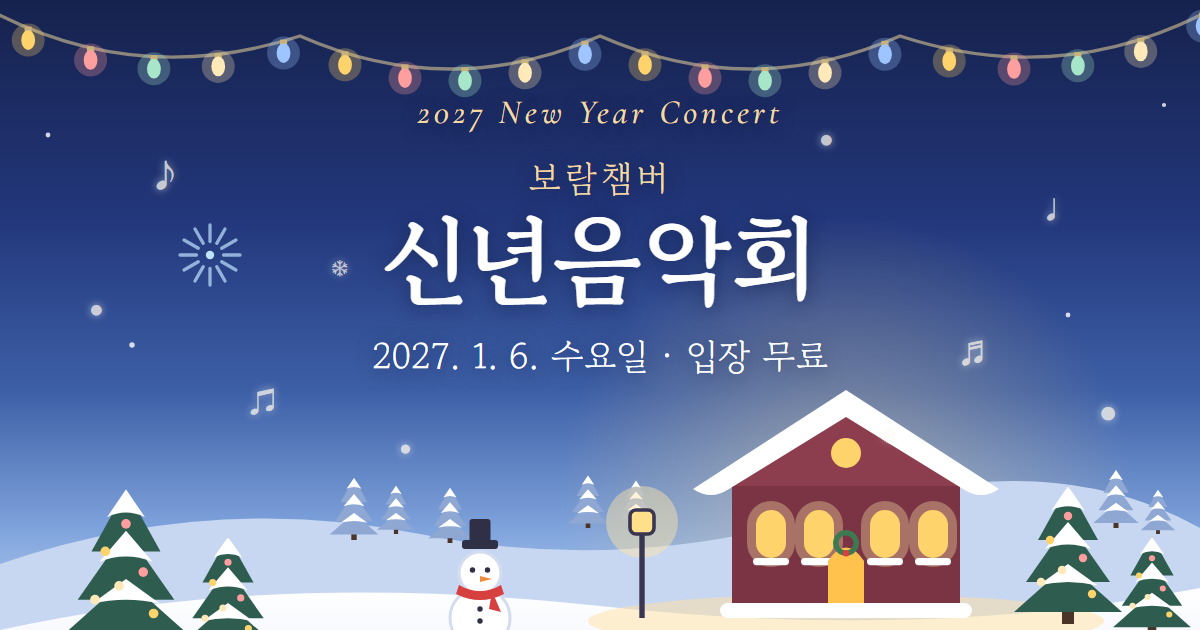
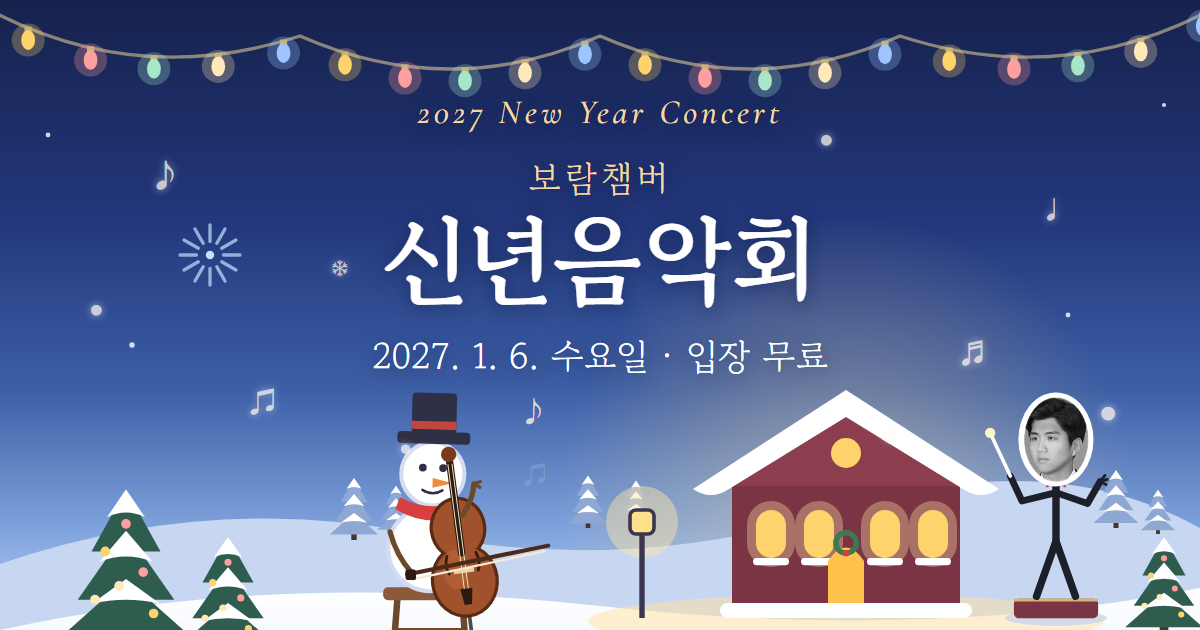
표지 오른쪽에 지휘자 캐릭터 추가
- 사진에서 딴 얼굴 + 졸라맨 몸, 지휘대 위에서 눈사람 쪽을 향해 지휘
- 지휘봉 팔·반대 손·고개가 박자에 맞춰 움직이고 지휘봉 끝이 반짝임
- 키는 앉은 눈사람과 비슷하게 맞춤, 오른쪽 소나무 하나를 비켜 줌

Changed region(s): [[0.8017, 0.6032, 1.0, 1.0], [0.3083, 0.6032, 0.4625, 1.0], [0.4317, 0.6333, 0.4625, 0.6635]]

diff --git a/index.html b/index.html
@@ -10,7 +10,7 @@
 <meta property="og:title" content="보람챔버 신년음악회">
 <meta property="og:description" content="2027년 1월 6일(수) · 보람챔버오케스트라가 초대합니다.">
 <meta property="og:url" content="https://boramchamber.github.io/2027-new-year/">
-<meta property="og:image" content="https://boramchamber.github.io/2027-new-year/og.png?v=2">
+<meta property="og:image" content="https://boramchamber.github.io/2027-new-year/og.png?v=3">
 <meta property="og:image:width" content="1200">
 <meta property="og:image:height" content="630">
 <meta name="theme-color" content="#16224d">
